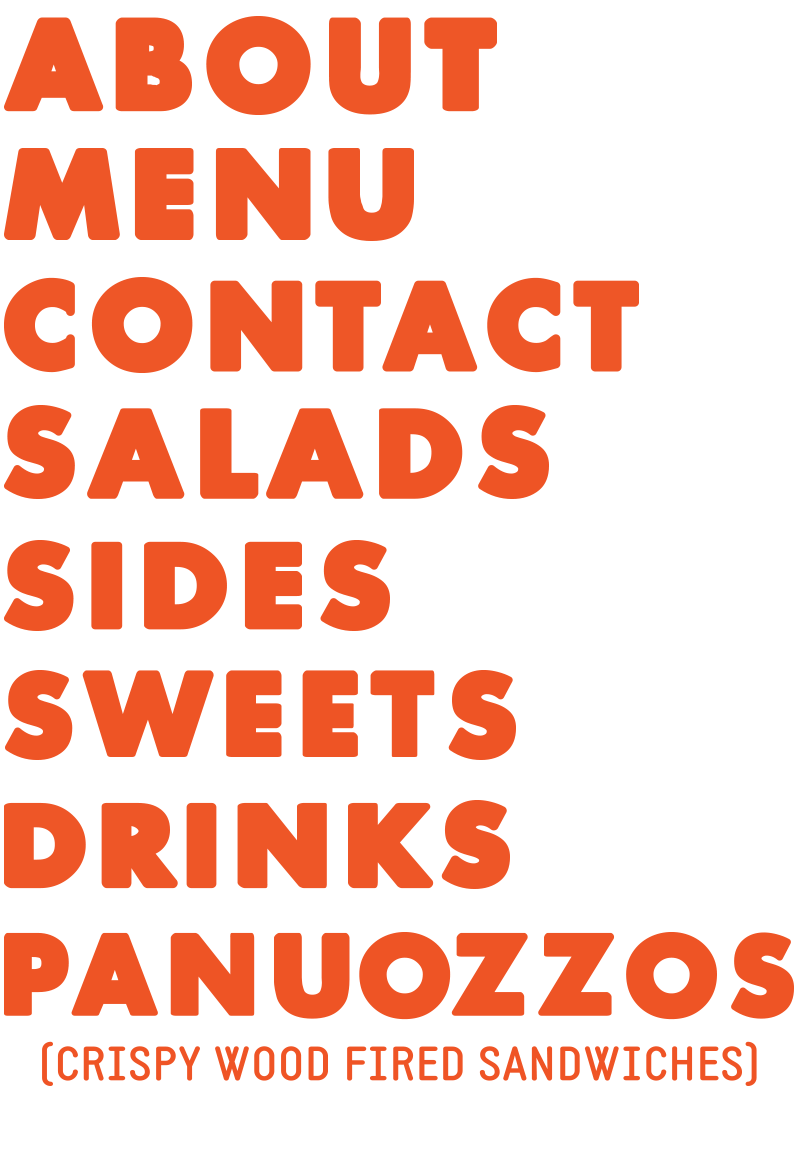
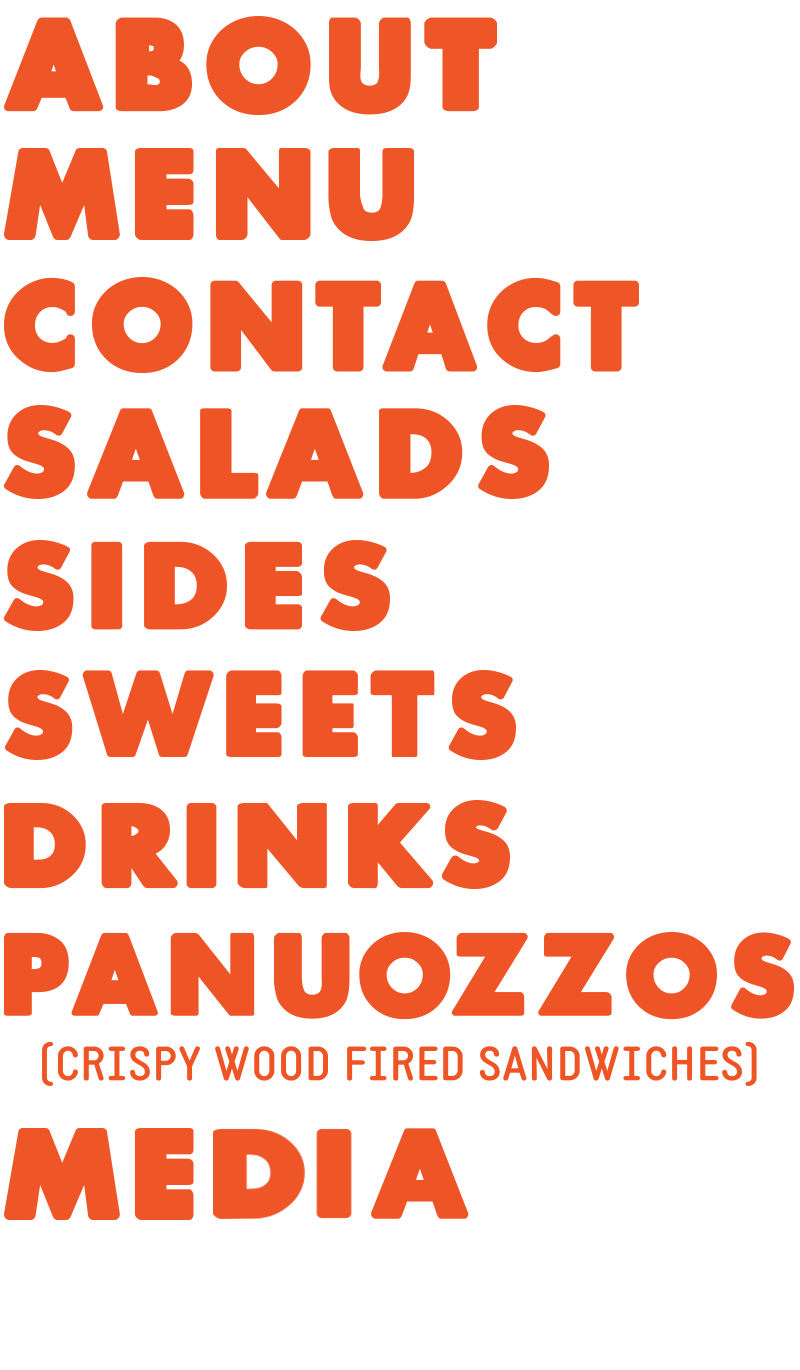
New heading and styles

diff --git a/src/Melt/WebsiteBundle/Resources/public/css/main.css b/src/Melt/WebsiteBundle/Resources/public/css/main.css
@@ -133,37 +133,41 @@ body {
 
         background-image: url(/bundles/website/images/body_headers.png);
         background-repeat: no-repeat;
-        background-size: 180px 281px;
-        background-position: 0 0;
+        background-size: 180px 308px;
+        background-position: 0 3px;
     }
         #layout--body h2.body-header.header--about {
         }
         #layout--body h2.body-header.header--menu {
-            background-position: 0 -30px;
+            background-position: 0 -27px;
         }
         #layout--body h2.body-header.header--salads {
-            background-position: 0 -92px;
+            background-position: 0 -86px;
             width: 135px;
         }
         #layout--body h2.body-header.header--panuzzos {
             width: 180px;
             height: 40px;
-            background-position: 0 -220px;
+            background-position: 0 -208px;
         }
         #layout--body h2.body-header.header--sides {
             width: 100px;
-            background-position: 0 -120px;
+            background-position: 0 -114px;
         }
         #layout--body h2.body-header.header--sweets {
-            background-position: 0 -155px;
+            background-position: 0 -144px;
         }
         #layout--body h2.body-header.header--drinks {
-            background-position: 0 -185px;
+            background-position: 0 -172px;
         }
         #layout--body h2.body-header.header--contact {
             width: 158px;
-            margin-bottom: 1.25em;
-            background-position: 0 -60px;
+            margin-bottom: 0.25em;
+            background-position: 0 -54px;
+        }
+        #layout--body h2.body-header.header--media {
+            margin-bottom: 0.25em;
+            background-position: 0 -247px;
         }
 
     #layout--body h2.drinks-header {
